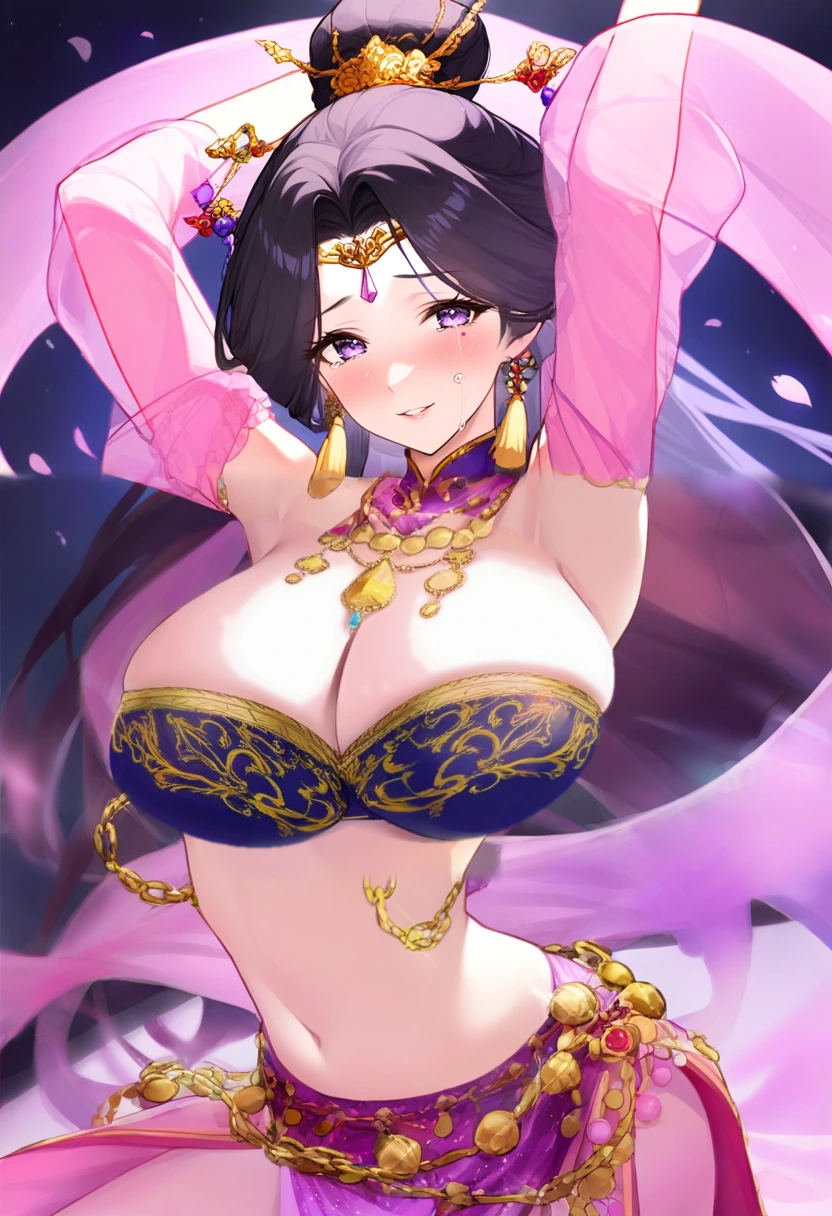
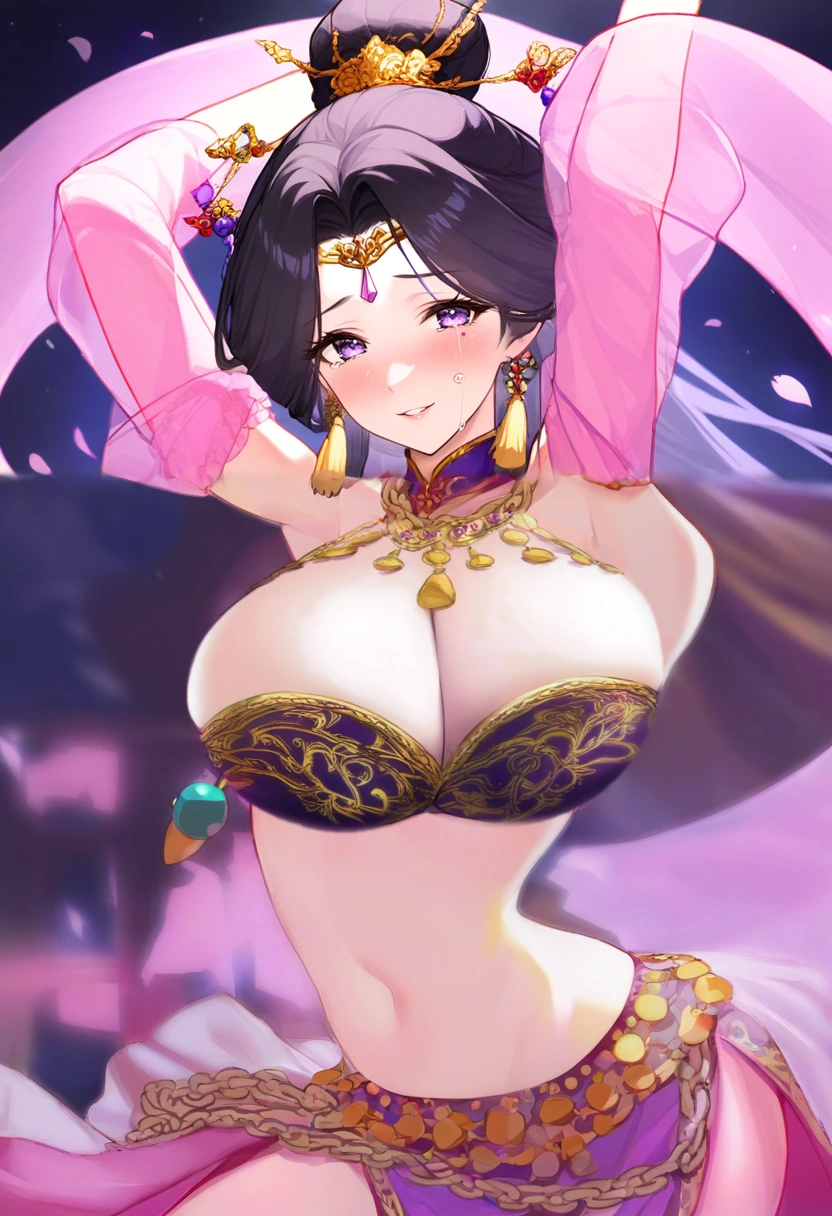
Diaochan v4: torso aligned under head, chest centered and clear of veil
Claude-Session: https://claude.ai/code/session_017CQhY3FLdH51zJppLF11JD

diff --git a/game/public/js/layered.js b/game/public/js/layered.js
@@ -17,7 +17,7 @@
     // 貂蟬 v2（2026-11-19 開發用 Colab＋Illustrious-XL 自己生的，Jay 選圖）：只有胸部、平胸底層、閉眼三層
     diaochan_v4: {
       w: 832, h: 1216, link: 1,
-      art: [[0.3101, 0.5609, 0.2188, 0.1357], [0.5192, 0.5567, 0.2188, 0.1357]],   // v2 的臉＋舞姬裝，胸部單獨生成（2026-11-19：放大一倍、膚色對齊肚子、置中到身體中線）
+      art: [[0.4147, 0.5526, 0.1983, 0.1316], [0.5974, 0.5485, 0.1983, 0.1316]],   // v2 的臉＋舞姬裝，胸部單獨生成（2026-11-19：身體對齊頭、胸部置中、不碰左邊的紗）
     },
     diaochan_v3: {
       w: 832, h: 1216,
@@ -106,7 +106,7 @@
       else { cc.globalCompositeOperation = "destination-in"; cc.drawImage(m, 0, 0); }
       tex = { base: mkTex(b), chest: mkTex(c), blink: mkTex(imgs.blink) }; if (imgs.acc) tex.acc = mkTex(imgs.acc); if (imgs.hair) tex.hair = mkTex(imgs.hair);
     }
-    names.forEach(function (n) { var im = new Image(); im.onload = function () { imgs[n] = im; if (--left === 0) compose(); }; im.src = base + (R.pre || id + "_") + n + ".webp?v=16"; });   // 改圖要換這個數字，不然手機會用到舊圖
+    names.forEach(function (n) { var im = new Image(); im.onload = function () { imgs[n] = im; if (--left === 0) compose(); }; im.src = base + (R.pre || id + "_") + n + ".webp?v=17"; });   // 改圖要換這個數字，不然手機會用到舊圖
 
     var P = { K: 38, C: 3.0, BREATH: 0.0035, BT: 3.8, LIFT: 0.016, MAX: 0.042, RIM: 0.28, amp: opt.amp == null ? 1 : opt.amp };   // MAX 是胸部中心的最大位移；邊緣只動 RIM 倍（約 0.28）
     var c = [{ x: 0, y: 0, vx: 0, vy: 0 }, { x: 0, y: 0, vx: 0, vy: 0 }], ear = [{ a: 0, v: 0 }, { a: 0, v: 0 }], hair = { x: 0, v: 0 };

diff --git a/game/public/tool/sunquan.html b/game/public/tool/sunquan.html
@@ -17,7 +17,7 @@ input[type=range]{flex:1}
 <div class="row">淡化<input id="fe" type="range" min="0" max="40" step="2" value="6"><span id="fv">6</span></div>
 <div class="row">邊緣<input id="rim" type="range" min="0" max="1" step="0.05" value="0.28"><span id="rv">0.28</span></div>
 <div class="row">幅度<input id="amp" type="range" min="0.3" max="1.3" step="0.1" value="1"><span id="av">1.0</span><button id="poke">晃一下</button></div></div></div>
-<script src="../js/layered.js?v=1119j"></script>
+<script src="../js/layered.js?v=1119k"></script>
 <script>
 var ID=new URLSearchParams(location.search).get("id")||"sunquan_ur";if(ID!=="sunquan_ur"){document.title="分層立繪試作";document.querySelector("#bar b").textContent=({diaochan_v2:"貂蟬",diaochan_v3:"貂蟬 v3",diaochan_v4:"貂蟬 v4"})[ID]+"｜分層立繪試作";document.querySelector("#bar .row").style.display="none";document.getElementById("stage").style.background="#1a1020"}
 var stage=document.getElementById("stage"),amp=document.getElementById("amp"),ol=null,L=null;

diff --git a/game/public/index.html b/game/public/index.html
@@ -56,7 +56,7 @@
 <script src="js/battle.js?v=1119a"></script>
 <script src="js/scene.js?v=1119a"></script>
 <script src="js/audio.js?v=1119a"></script>
-<script src="js/layered.js?v=1119j"></script>
+<script src="js/layered.js?v=1119k"></script>
 <script src="js/cardfx.js?v=1119a"></script>
 <script src="js/jiggle.js?v=1119a"></script>
 <script src="js/ui.js?v=1119a"></script>
